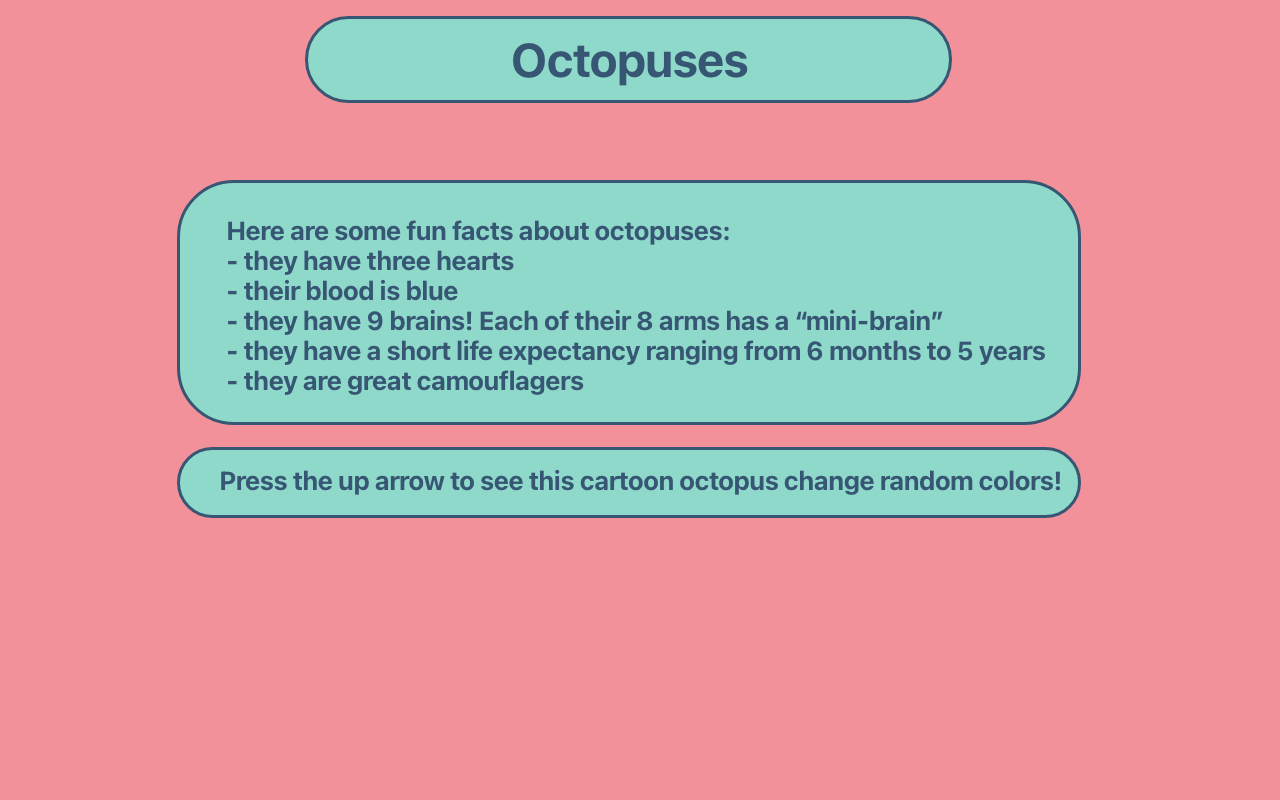
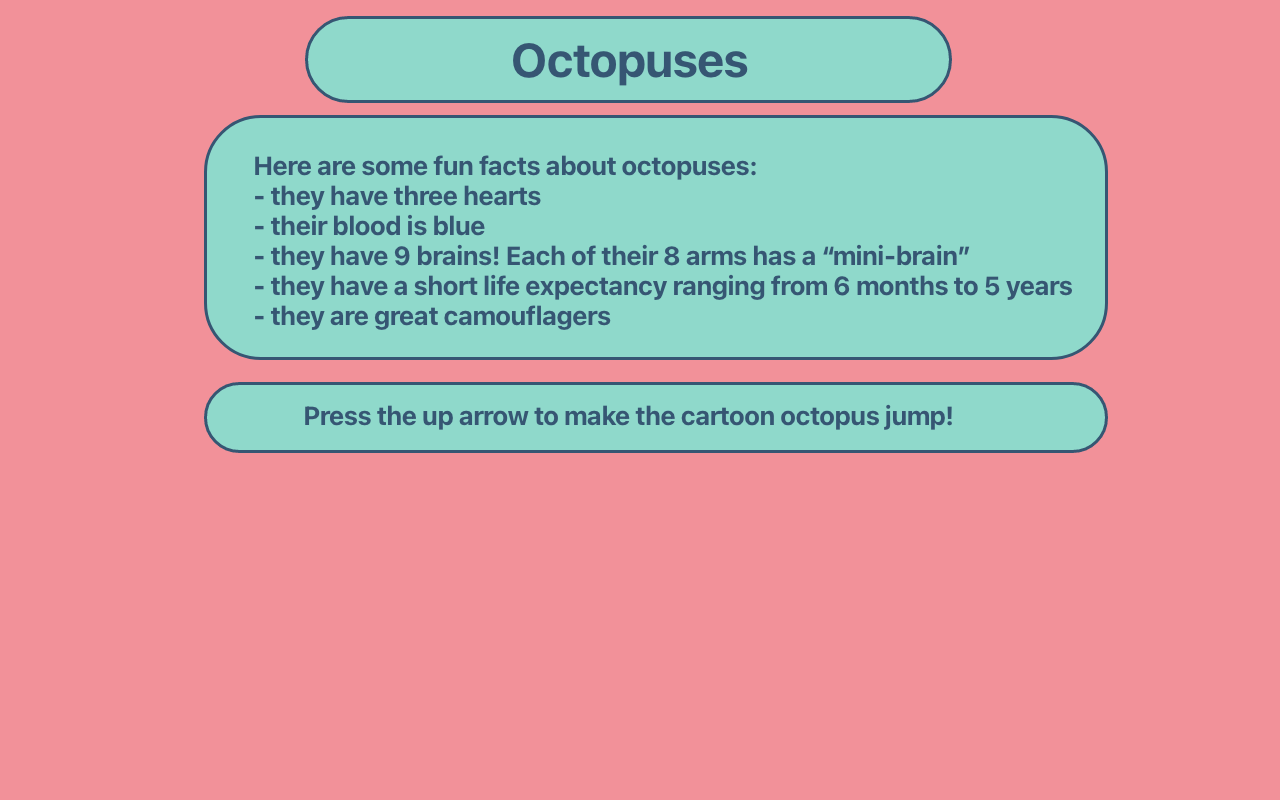
finished octopus page

Changed region(s): [[0.125, 0.125, 0.875, 0.6562]]

diff --git a/sketch.js b/sketch.js
@@ -39,9 +39,15 @@ var whaleSharkButton;
 var turtleX = 1500 * (1/32) - 30; 
 var turtleY = 850 * (1/32) - 90; 
 
+// sprites for mini games 
 var spongebob; 
 var jellyfish; 
 var jellyfishGroup; 
+var octopus; 
+var platform; 
+
+var gravity = 1; 
+var jump = 15; 
 
 // load all images into an array
 function preload() {
@@ -75,6 +81,7 @@ function preload() {
   images[27] = loadImage('assets/cartoon jellyfish.png'); 
   images[28] = loadImage('assets/octopus page.png'); 
   images[29] = loadImage('assets/octopus cartoon.png')
+  images[30] = loadImage('assets/platform.png')
 }
 
 function setup() {
@@ -84,9 +91,15 @@ function setup() {
   images[26].resize(300,300); 
   spongebob.addAnimation('normal',images[26],images[26]); 
 
-  // jellyfish = createSprite(100,100); 
   images[27].resize(130, 140); 
-  // jellyfish.addAnimation('normal',images[27],images[27]); 
+
+  octopus = createSprite(width * (1/2) - 150, height *(5/8)); 
+  images[29].resize(350,350); 
+  octopus.addAnimation('normal', images[29], images[29]); 
+
+  platform = createSprite(width * (1/2) - 150, 950); 
+  images[30].resize(200,90); 
+  platform.addAnimation('normal', images[30], images[30]); 
 
   jellyfishGroup = new Group(); 
 
@@ -673,17 +686,28 @@ turtlePage = function(){
 octopusPage = function(){
   image(images[28], 0, 0, width, height);
   image(images[21], width * (1/16) - 60, height * (1/16), 300, 160);
-  image(images[29], width * (1/2) - 200, height *(5/8), 350, 350);
+  spongebob.visible = false; 
+  octopus.visible = true; 
+  octopus.velocity.y += gravity; 
+  print('The value of octopus velocity is ' + octopus.velocity.y);
+  if(octopus.collide(platform)){
+    octopus.velocity.y = 0; 
+  }
+  drawSprites(); 
   backButton.draw(); 
 }
 
 jellyfishPage = function(){
   image(images[25], 0, 0, width, height);
   image(images[19], width * (1/16) - 60, height * (1/16), 400, 200);
-  
+  spongebob.visible = true; 
+  octopus.visible = false; 
   spongebob.velocity.x = (mouseX - spongebob.position.x)/10; 
   spongebob.velocity.y = (mouseY - spongebob.position.y)/10; 
   jellyfishGroup.overlap(spongebob, collect); 
+  if(octopus.collide(platform)){
+    octopus.velocity.y = 0; 
+  }
   drawSprites(); 
   backButton.draw(); 
 }
@@ -715,6 +739,11 @@ function keyPressed(){
         jellyfishSingle.addAnimation('normal',images[27],images[27]);  
         jellyfishGroup.add(jellyfishSingle); 
       }
+    }
+  }
+  else if (drawFunction === octopusPage){
+    if(keyCode === UP_ARROW){
+      octopus.velocity.y = -jump; 
     }
   }
 }
